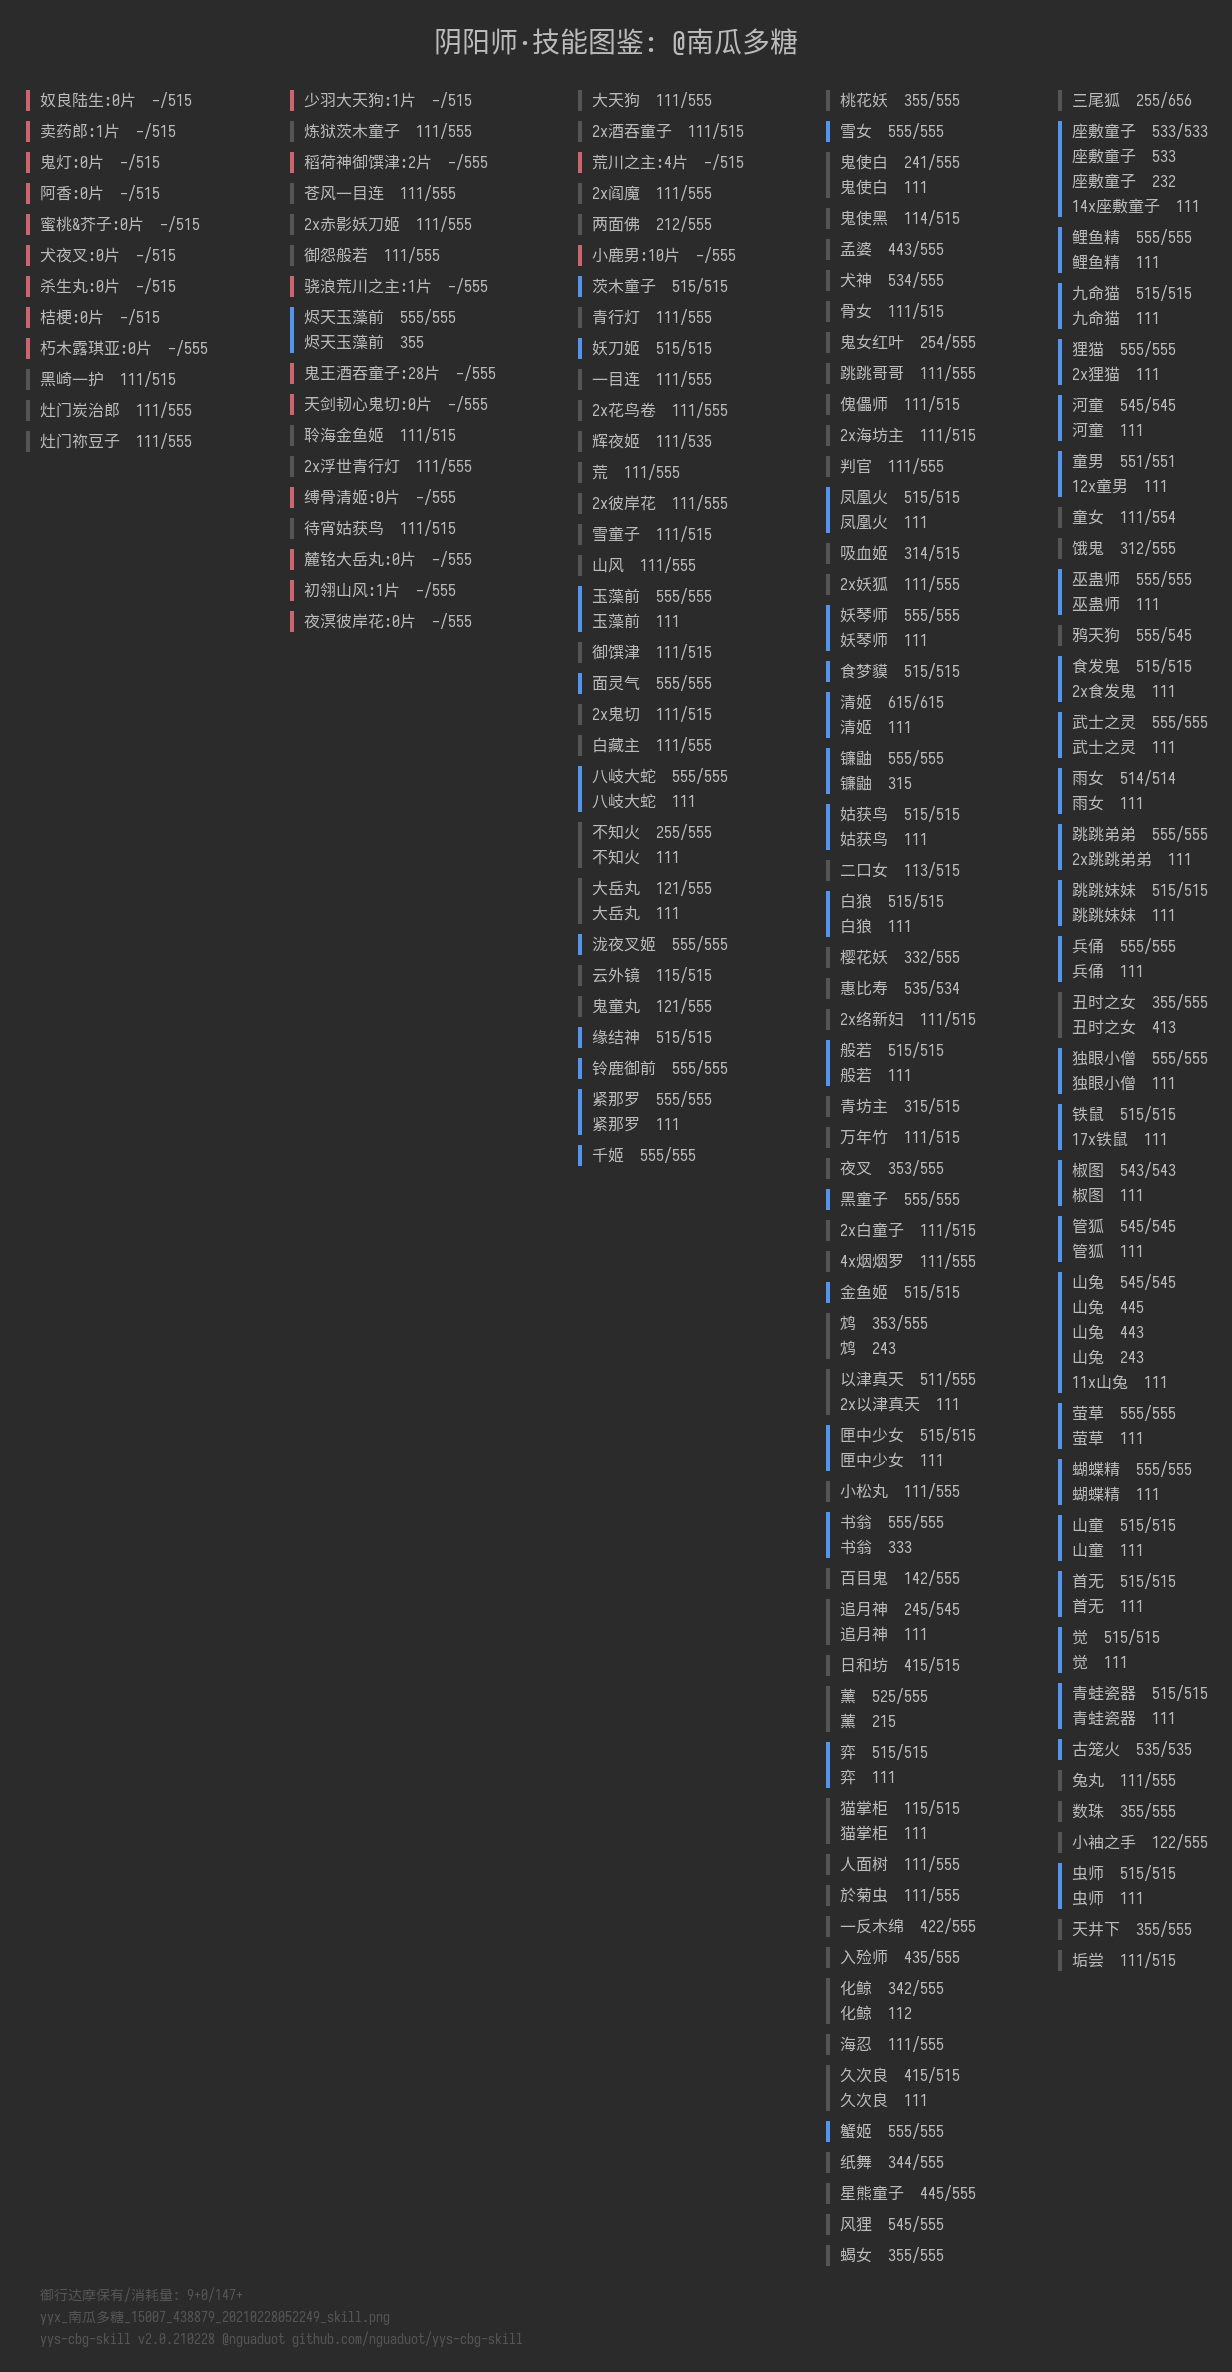
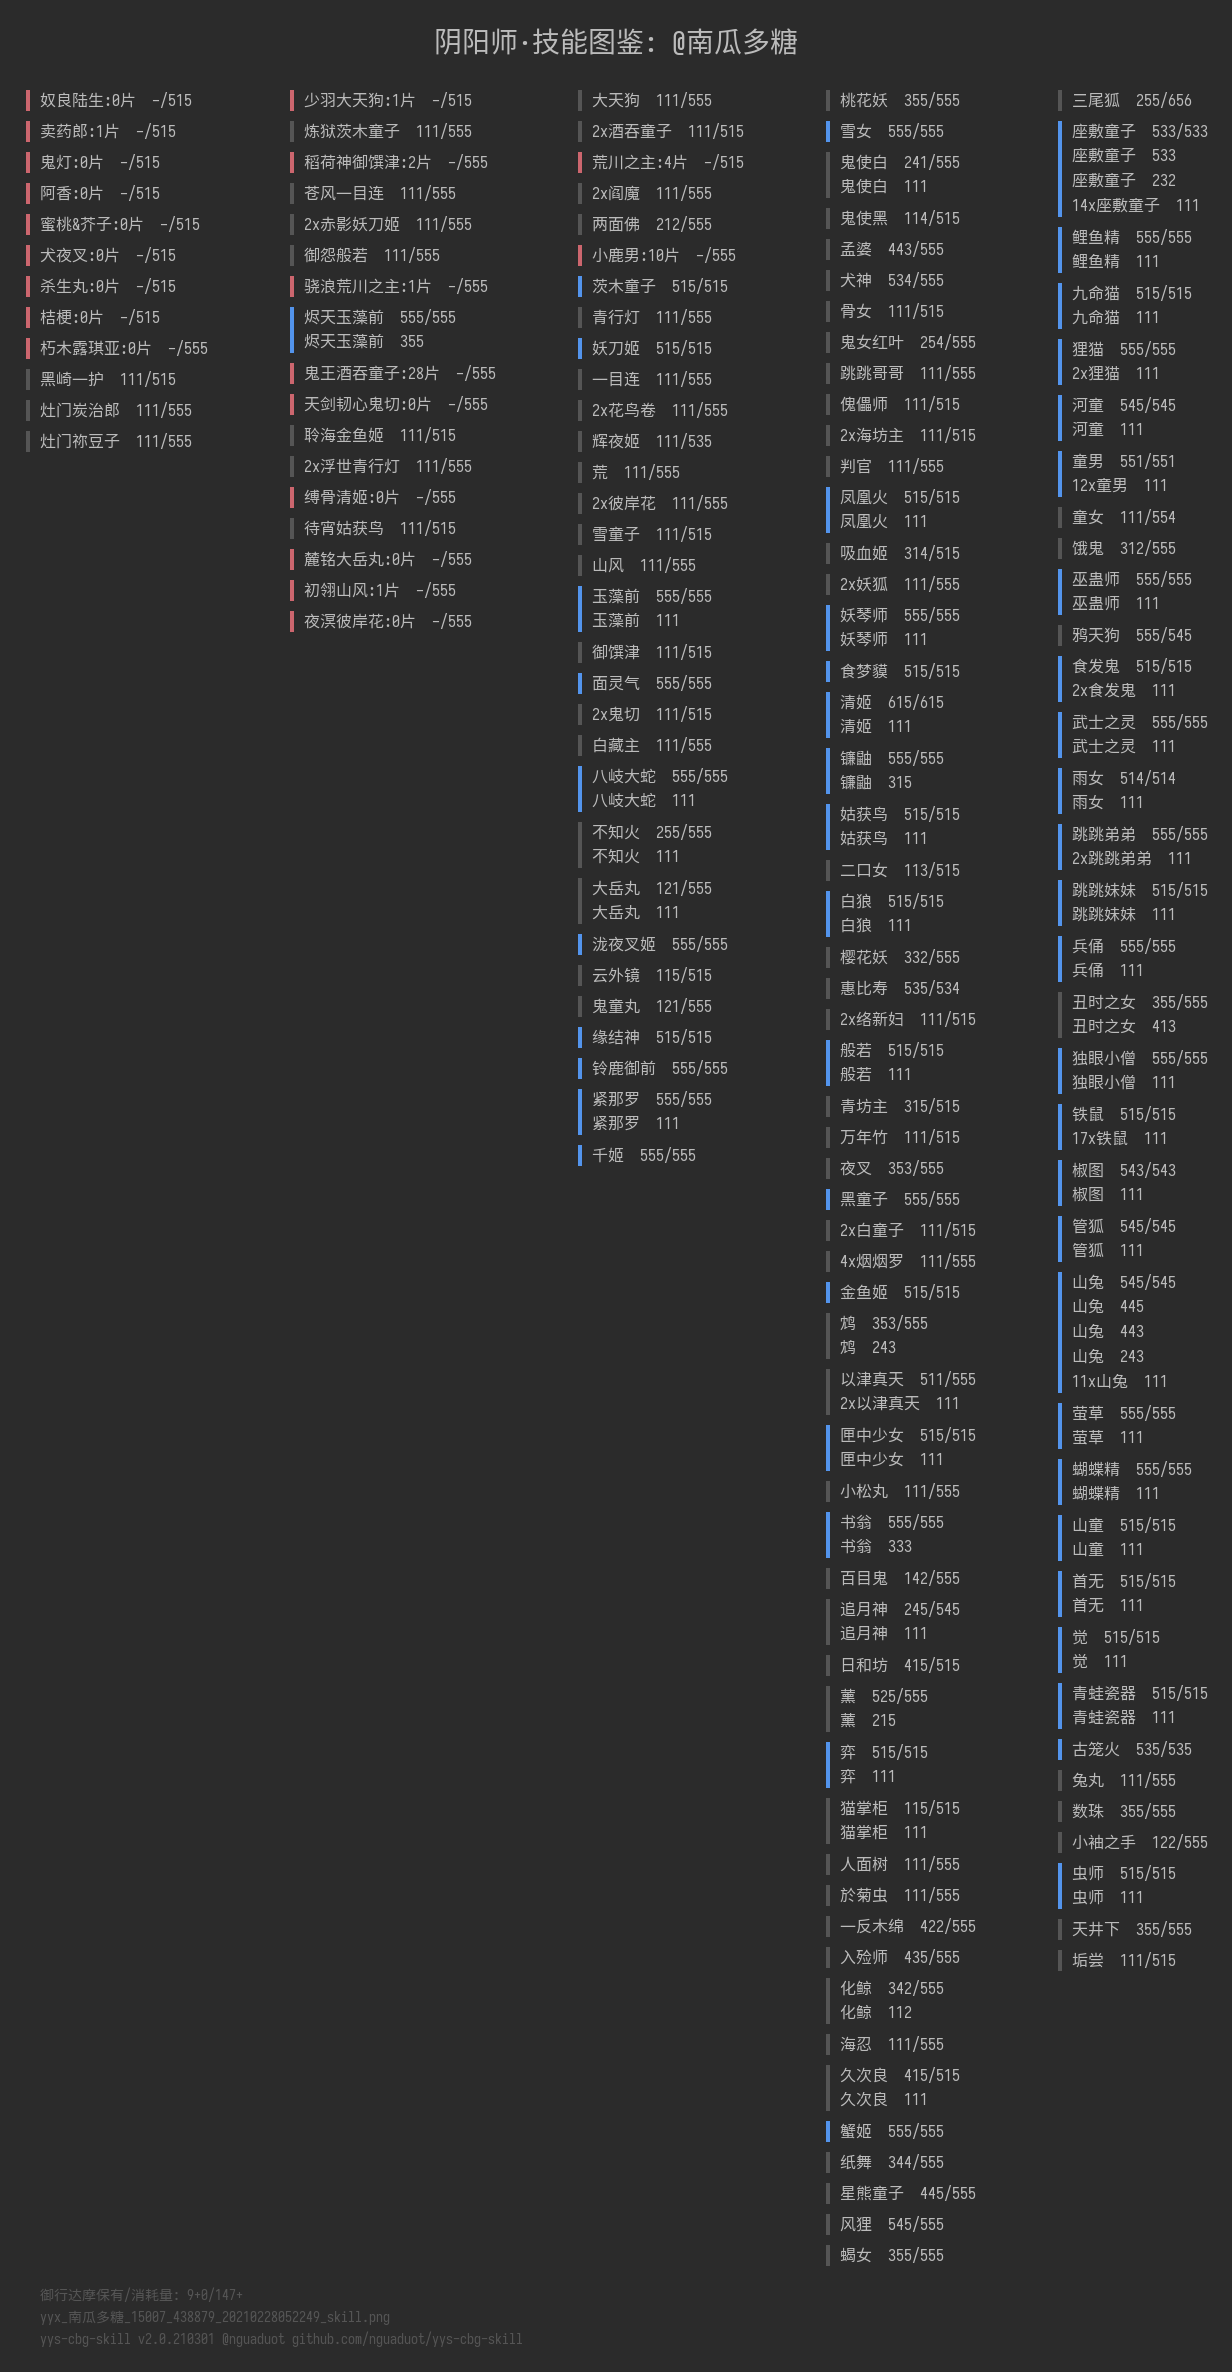
v2.0

diff --git a/code/cbg_skill.py b/code/cbg_skill.py
@@ -6,8 +6,8 @@
 # 了解更多请前往 GitHub 查看项目：https://github.com/nguaduot/yys-cbg-skill
 #
 # author: @nguaduot 痒痒鼠@南瓜多糖
-# version: 2.0.210228
-# date: 20210228
+# version: 2.0
+# date: 20210301
 
 import getopt
 import json
@@ -27,28 +27,30 @@ from modules import parser
 PROG = 'yys-cbg-skill'
 AUTH = 'nguaduot'
 VER = '2.0'
-VERSION = VER + '.210228'
+VERSION = VER + '.210301'
 REL = 'github.com/nguaduot/yys-cbg-skill'
 COPYRIGHT = '%s v%s @%s %s' % (PROG, VERSION, AUTH, REL)
-HELP = '''+ 选项：
-  -h, --help     帮助
-  -v, --version  程序版本
-  -u, --url      藏宝阁商品链接
-+ 若未指定 -u, 程序会读取未知参数, 若也无未知参数, 不启动程序'
-+ 不带任何参数也可启动程序, 会有参数输入引导'''
+HELP = '''参数文档:
+-u, --url        藏宝阁商品号链接/本地数据文件路径
+-d, --dark       暗色输出(默认)
+-l, --light      亮色输出
+-v, --version    程序版本
+-h, --help       帮助'''
 
-HERO_N_FAKE = {
+# TODO: 可自行调整
+RARITY_VISIBLE = (
+    'x', 'sp', 'ssr', 'sr', 'r'
+)  # 可见稀有度, 合法值: sp, ssr, sr, r, n, x (n: N+呱, x: 联动)
+PALETTE_DARK = True  # 暗色输出(True: 暗色, False: 亮色)
+
+# TODO: 以下常量需留意随版本更新而检查更新
+HERO_DAMO = {
     410: '招福达摩',
     411: '御行达摩',
     412: '奉为达摩',
     413: '大吉达摩',
     499: '鬼武达摩'
-}  # 被归为 N 阶稀有度的素材
-
-# TODO: 可自行调整
-RARITY_VISIBLE = ['x', 'sp', 'ssr', 'sr', 'r']  # 设定显示的稀有度, 其他则不显示(X为联动)
-
-# TODO: 以下常量需留意随版本更新而检查更新
+}  # 素材
 HERO_SKILL_MAX = {
     # 联动
     '奴良陆生': '515',
@@ -235,7 +237,7 @@ HERO_SKILL_MAX = {
     '辉夜姬呱': '55',
     '荒呱': '55',
     '彼岸花呱': '55'
-}  # 式神技能等级上限, 使用 HERO_SKILL_MAX.get(x, x) 取值而非 HERO_SKILL_MAX[x]
+}  # 式神技能等级上限, 使用 ?.get(?, ?) 取值而非 ?[?]
 
 USER_AGENT = ('Mozilla/5.0 (Windows NT 10.0; Win64; x64)'
               ' AppleWebKit/537.36 (KHTML, like Gecko)'
@@ -253,7 +255,7 @@ def save(data_hero_book, title, feet, path_base):
         feet_all = feet + (path.basename(file_result), COPYRIGHT)
         output.text2img(file_result, data_hero_book,
                         title=title, feet=feet_all,
-                        palette=output.PaletteDay())
+                        palette_dark=PALETTE_DARK)
         print(log('已保存结果 \'*_%s\'' % file_result.rsplit('_', 1)[1], 'info'))
         view(file_result)
     else:
@@ -262,12 +264,13 @@ def save(data_hero_book, title, feet, path_base):
 
 
 def get_hero_book(data_config: dict):
+    """
+    e.g. [200, '桃花妖', 3, 'taohuayao']
+    式神 ID, 式神名, 稀有度索引, 式神名拼音
+    """
     result = {}
     for item in data_config['hero_list']:
-        # [200, '桃花妖', 3, 'taohuayao']
-        # 200: 式神 ID
-        # 3: 稀有度索引(5 SP 4 SSR 3 SR 2 R 1 N + 呱 + 素材)
-        if item[0] in HERO_N_FAKE:
+        if item[0] in HERO_DAMO:  # 剔除被算作N阶稀有度的"素材"
             continue
         result[item[1]] = {
             'rarity': item[2],
@@ -330,6 +333,7 @@ def fetch_cbg_equip(url_equip):
 
 def read_data(path_data):
     global data_parser
+    print(log('正在读取式神录数据...', 'info'))
     with open(path_data, 'r', encoding='utf-8') as f:
         obj = json.loads(f.read())
         if check_data_fluxxu(obj):  # 按「痒痒熊快照」数据处理
@@ -392,31 +396,33 @@ def view(file):
 
 
 def parse_args(args):
+    global PALETTE_DARK
     try:
         opts, args = getopt.getopt(
             args,
-            'hvu:',
-            ['help', 'version', 'url=']
+            'hvdlu:',
+            ['help', 'version', 'dark', 'light', 'url=']
         )
     except getopt.GetoptError:
         opts, args = [('-h', '')], []
-    url_equip, helped = None, False
+    url_or_path, do_not_run = None, False
     for opt, value in opts:
         if opt in ('-h', '--help'):
             print(COPYRIGHT)
             print(HELP)
-            helped = True
+            do_not_run = True
         elif opt in ('-v', '--version'):
             print(VERSION)
-            helped = True
+            do_not_run = True
+        elif opt in ('-d', '--dark'):
+            PALETTE_DARK = True
+        elif opt in ('-l', '--light'):
+            PALETTE_DARK = False
         elif opt in ('-u', '--url'):
-            url_equip = value
-    if not url_equip and args:
-        url_equip = args[0]
-    if not helped and not url_equip:
-        print(COPYRIGHT)
-        print(HELP)
-    return url_equip
+            url_or_path = value
+    if not url_or_path and args:
+        url_or_path = args[0]
+    return url_or_path, do_not_run
 
 
 def run_as_exe():
@@ -432,13 +438,14 @@ def run_as_exe():
 
 
 def main():
-    if len(sys.argv) > 1:
-        url_or_path = parse_args(sys.argv[1:])
-        if not url_or_path:
-            return
-        print(COPYRIGHT)
-    else:
-        print(COPYRIGHT)
+    url_or_path, do_not_run = None, False
+    if len(sys.argv) > 1:  # 带参启动
+        url_or_path, do_not_run = parse_args(sys.argv[1:])
+    if do_not_run:  # 无须启动
+        return
+    print(COPYRIGHT)
+    print(log('暗色输出' if PALETTE_DARK else '亮色输出', 'info'))
+    if not url_or_path:
         url_or_path = input(log('藏宝阁链接/痒痒熊快照导出文件: ', 'input')).strip('"\'')
 
     # 读取/抓取数据&解析数据

diff --git a/code/modules/parser.py b/code/modules/parser.py
@@ -14,10 +14,14 @@ from os import path
 
 
 class Parser(object):
-    hero_rarity = {5: 'sp', 4: 'ssr', 3: 'sr', 2: 'r', 1: 'n'}  # 式神稀有度索引
+    hero_rarity = {
+        5: 'sp', 4: 'ssr', 3: 'sr', 2: 'r', 1: 'n'
+    }  # 式神稀有度索引(n: N+呱)
     file_attach = None  # 所依附文件, 据此决定结果文件路径
     data_src = None
-    rarity_visible = ['x', 'sp', 'ssr', 'sr', 'r']  # 设定显示的稀有度, 其他则不显示(X为联动)
+    rarity_visible = [
+        'x', 'sp', 'ssr', 'sr', 'r'
+    ]  # 可见稀有度, 合法值: sp, ssr, sr, r, n, x (n: N+呱, x: 联动)
 
     def __init__(self, file_attach, data_src, rarity_visible=None):
         self.file_attach = file_attach
@@ -42,7 +46,7 @@ class CbgParser(Parser):
     hero_onmyoji = {
         10: '晴明', 11: '神乐', 13: '源博雅', 12: '八百比丘尼',
         900: '神龙', 901: '白藏主', 903: '黑豹', 902: '孔雀'
-    }  # 阴阳师及其御灵稀有度均被设定为SSR, 即 item['rarity'] == 4
+    }  # 阴阳师及其御灵稀有度均被设定为SSR, 即 ?['rarity'] == 4
     rarity_fragment = {5: 60, 4: 50, 3: 40, 2: 30, 1: 25}  # 各稀有度碎片合成量
     data_equip = None
 
@@ -178,7 +182,6 @@ class CbgParser(Parser):
 
 
 class YyxParser(Parser):
-    # map_rarity = {'SP': 5, 'SSR': 4, 'SR': 3, 'R': 2, 'N': 1}  # 稀有度索引映射
     heroes_x = (
         '奴良陆生',
         '卖药郎',

diff --git a/code/modules/output.py b/code/modules/output.py
@@ -23,16 +23,24 @@ class Palette(object):
     tag = ('#000000', '#000000', '#000000')  # 标签色(好, 中, 差)
 
 
-class PaletteDay(Palette):
-    bg = '#ffffff'
-    txt = ('#000000', '#555555')
-    tag = ('#0000ee', '#555555', '#cd0000')
-
-
-class PaletteNight(Palette):
+class PaletteDark(Palette):
+    # 参考自 PyCharm - Scheme: Darcula
+    # Background,
+    # Standard output, An expired log entry,
+    # Log verbose, Standard output, Log error
     bg = '#2b2b2b'
     txt = ('#bbbbbb', '#555555')
     tag = ('#5394ec', '#555555', '#cc666e')
+
+
+class PaletteLight(Palette):
+    # 参考自 PyCharm - Scheme: Classic Light
+    # Background,
+    # Standard output, An expired log entry,
+    # Log verbose, ANSI: gray, Log error
+    bg = '#ffffff'
+    txt = ('#000000', '#555555')
+    tag = ('#0000ee', '#aaaaaa', '#cd0000')
 
 
 class Output(object):
@@ -275,8 +283,8 @@ def enabled():
 
 
 def text2img(file_out, data, title: str = None, feet: tuple = None,
-             palette: Palette = None):
-    o = Output(palette if palette else PaletteNight())
+             palette_dark: bool = True):
+    o = Output(PaletteDark() if palette_dark else PaletteLight())
     o.text2img(util.font(), file_out, _data2text(data),
                title, feet if feet else ())
 

diff --git a/readme.md b/readme.md
@@ -16,15 +16,15 @@
 
 ### 例
 
-+ 支持解析藏宝阁链接，例：
++ 支持解析藏宝阁商品号链接，例：
 
-![cbg_中国区-iOS_夏之蝉_南瓜多糖_20210201095612_screenshot](sample/cbg_中国区-iOS_夏之蝉_南瓜多糖_20210201095612_screenshot.png)
+![cbg_中国区-iOS_夏之蝉_南瓜多糖_20210222071008_screenshot](sample/cbg_中国区-iOS_夏之蝉_南瓜多糖_20210222071008_screenshot.png)
 
-输入商品链接：[阴阳师藏宝阁-夏之蝉-南瓜多糖](https://yys.cbg.163.com/cgi/mweb/equip/21/202102020901616-21-3S6GQUUH2DOUM)
+输入商品链接：[https://yys.cbg.163.com/cgi/mweb/equip/21/202102020901616-21-3S6GQUUH2DOUM](https://yys.cbg.163.com/cgi/mweb/equip/21/202102020901616-21-3S6GQUUH2DOUM)
 
 输出结果图：[cbg_中国区-iOS_夏之蝉_南瓜多糖_20210222071008_skill.png](sample/cbg_中国区-iOS_夏之蝉_南瓜多糖_20210222071008_skill.png)
 
-+ 也支持解析[痒痒熊快照](https://github.com/OnmyojiX/yyx)导出的数据文件，例：
++ 也支持解析本地数据文件（来自[痒痒熊快照](https://github.com/OnmyojiX/yyx)），例：
 
 输入数据文件：[yyx_南瓜多糖_15007_438879_20210228052249.json](sample/yyx_南瓜多糖_15007_438879_20210228052249.json)
 
@@ -49,12 +49,12 @@ python cbg_skill.py -h
 ```
 
 ```
-+ 选项：
-  -h, --help     帮助
-  -v, --version  程序版本
-  -u, --url      藏宝阁商品链接
-+ 若未指定 -u, 程序会读取未知参数, 若也无未知参数, 不启动程序'
-+ 不带任何参数也可启动程序, 会有参数输入引导
+参数文档:
+-u, --url        藏宝阁商品号链接/本地数据文件路径
+-d, --dark       暗色输出(默认)
+-l, --light      亮色输出
+-v, --version    程序版本
+-h, --help       帮助
 ```
 
 ### 作者
@@ -67,12 +67,12 @@ python cbg_skill.py -h
 
 ### 更新日志
 
-v2.0.210228
+v2.0.210301
 + 除藏宝阁链接，也支持解析本地藏宝阁JSON数据文件
 + 支持解析[痒痒熊快照](https://github.com/OnmyojiX/yyx)导出的JSON数据文件
 + 增加式神图鉴信息
 + 更精准识别SR、R阶联动拥有情况
-+ 除暗色输出，增加亮色输出可选
++ 除暗色输出，增加亮色输出可选，并支持命令行指定（“-d/--dark”、“-l/--light”）
 
 v1.1.210226
 + 缺失式神增加碎片收集量显示
